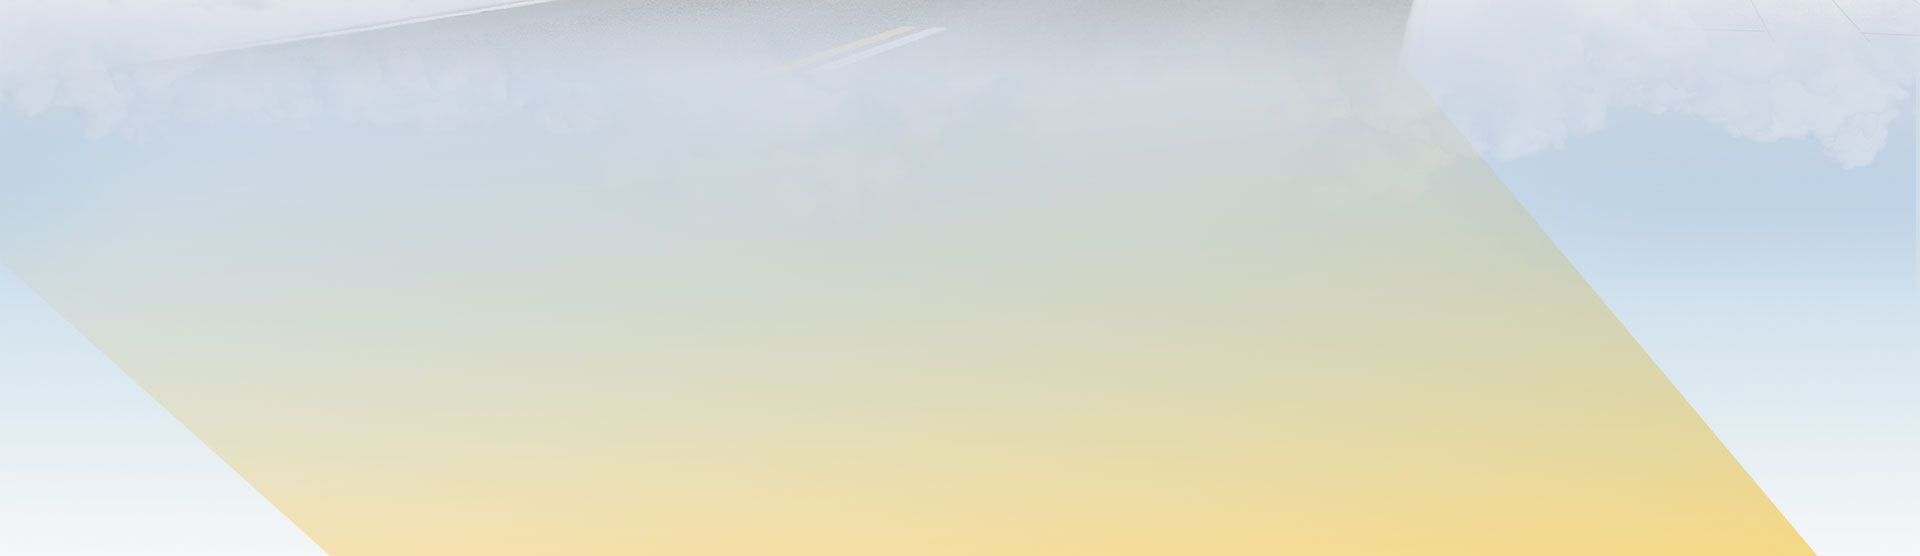
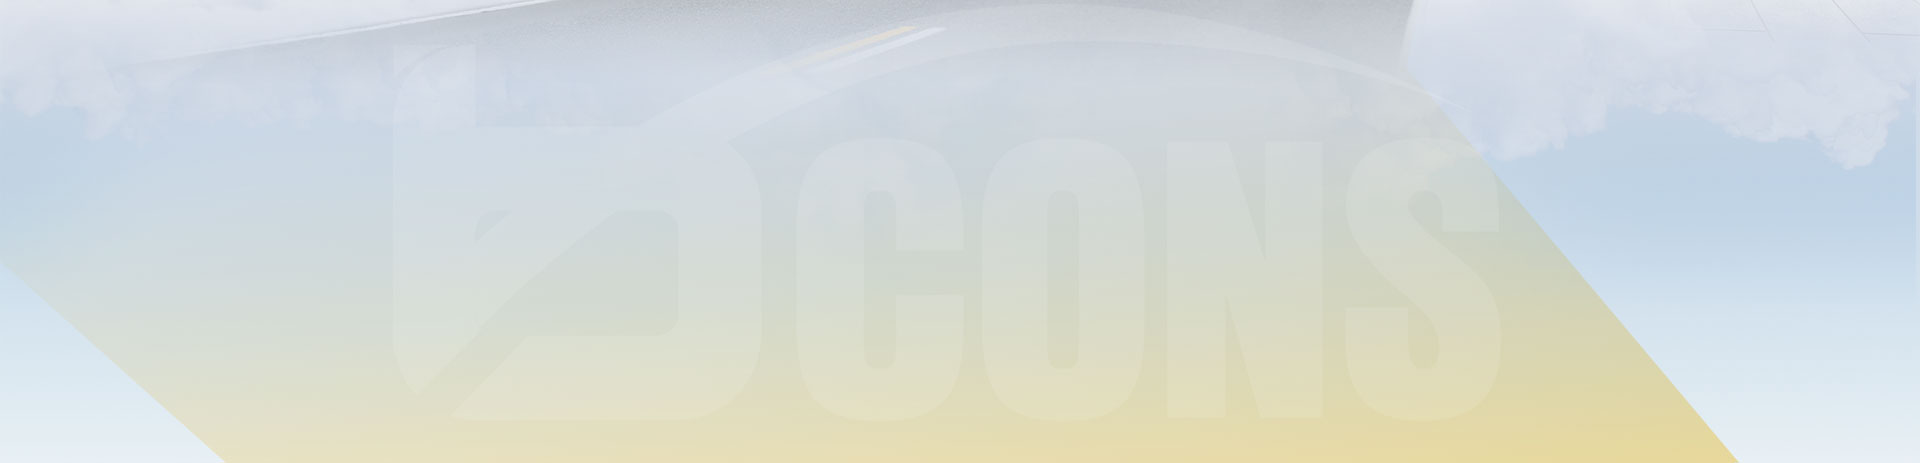
update feedback

Changed region(s): [[0.75, 0.3024, 0.9688, 1.0], [0.0312, 0.6652, 0.1875, 1.0]]

diff --git a/src/scss/_blocks.scss b/src/scss/_blocks.scss
@@ -95,7 +95,7 @@
 }
 
 .block_intro {
-    height: 27.115vw;
+    height: 23.958vw;
     position: relative;
     width: 100%;
     background: url("../assets/images/block2_bg.jpg");
@@ -104,17 +104,18 @@
     transform: translateY(-1px);
 
     @media (max-width: 767px) {
-        height: 45vw;
+        height: 65vw;
         background-image: none;
         background: linear-gradient(0deg, #f7d782 0%, #e5ebf3 100%);
     }
 
     &__container {
+        @include transform(translate(-50%, -50%));
+        font-family: $UTMGod_sWordR;
         position: absolute;
         top: 50%;
         left: 50%;
-        width: 56.771vw;
-        @include transform(translate(-50%, -50%));
+        width: 56.250vw;
 
         @media (max-width: 767px) {
             width: 80vw;
@@ -125,6 +126,57 @@
                 transform: translateY(-4vw);
             }
 
+        }
+
+        &::before,
+        &::after {
+            position: absolute;
+            content: '';
+            width: 4.375vw;
+            height: 3.333vw;
+            background-repeat: no-repeat;
+            background-size: 100% 100%;
+        }
+
+        &::before {
+            left: -1.375vw;
+            top: 0;
+            background-image: url('../assets/images/sign.png');
+        }
+
+        &::after {
+            @include transform(rotate(180deg));
+            right: -1.375vw;
+            bottom: 0;
+            background-image: url('../assets/images/sign.png');
+        }
+    }
+
+    &__wrap-text {
+        position: relative;
+        text-align: center;
+        max-width: calc(100% - 8.333vw);
+        margin: 0 auto;
+    }
+
+    &__title {
+        font-size: 2.708vw;
+        color: #205586;
+        line-height: normal;
+        margin-bottom: 0.625vw;
+
+        @media (max-width: 767px) {
+            font-size: 4.708vw;
+        }
+    }
+
+    &__sub {
+        font-size: 1.563vw;
+        color: #152c3a;
+        line-height: normal;
+
+        @media (max-width: 767px) {
+            font-size: 3vw;
         }
     }
 }

diff --git a/src/scss/_common.scss b/src/scss/_common.scss
@@ -423,6 +423,8 @@ button {
     }
 
     .yt {
+        margin: 0;
+
         .hover {
             display: none;
         }
@@ -439,19 +441,31 @@ button {
     }
 
     .fb {
+        height: 5.5vw;
+        background-image: none;
+        border: none !important;
+
+        @media (max-width: 767px) {
+            height: auto;
+        }
+
         .hover {
             display: none;
         }
 
         &:hover {
-            .hover {
-                display: block;
-            }
-
-            .origin {
-                display: none;
-            }
+            background-color: transparent;
         }
+
+        // &:hover {
+        //     .hover {
+        //         display: block;
+        //     }
+
+        //     .origin {
+        //         display: none;
+        //     }
+        // }
     }
 
     .btn_baogia {
@@ -460,8 +474,6 @@ button {
         margin: 0 auto;
         margin-bottom: 0.8vw;
         cursor: pointer;
-        //background-color: red;
-        border-radius: 1.042vw;
         position: relative;
         overflow: hidden;
 
@@ -631,6 +643,21 @@ button {
 
     &:hover {
         background-image: url("../assets/images/btn_register1.png");
+    }
+}
+
+.btn-submit-price {
+    background-repeat: no-repeat;
+    background-size: 100% 100%;
+    background-image: url("../assets/images/btn_bg.png");
+    width: 18.385vw;
+    height: 3.385vw;
+    text-align: center;
+    color: #fff;
+    font-size: 1.354vw;
+
+    @media (max-width: 767px) {
+        font-size: 20px;
     }
 }
 

diff --git a/src/js/script.js b/src/js/script.js
@@ -39,7 +39,7 @@ var MainScript = (function () {
             maxLength: 10,
         }, {
             name: '.PopupEmail',
-            validators: ['required']
+            validators: []
         }, {
             name: '.PopupNote',
             validators: []
@@ -59,7 +59,7 @@ var MainScript = (function () {
             maxLength: 10,
         }, {
             name: '.block1Email',
-            validators: ['required']
+            validators: []
         }, {
             name: '.block1Note',
             validators: []
@@ -79,7 +79,7 @@ var MainScript = (function () {
             maxLength: 10,
         }, {
             name: '.block6Email',
-            validators: ['required']
+            validators: []
         }];
         var $submit = '.block6__button button';
         validateForm($submit, form);
